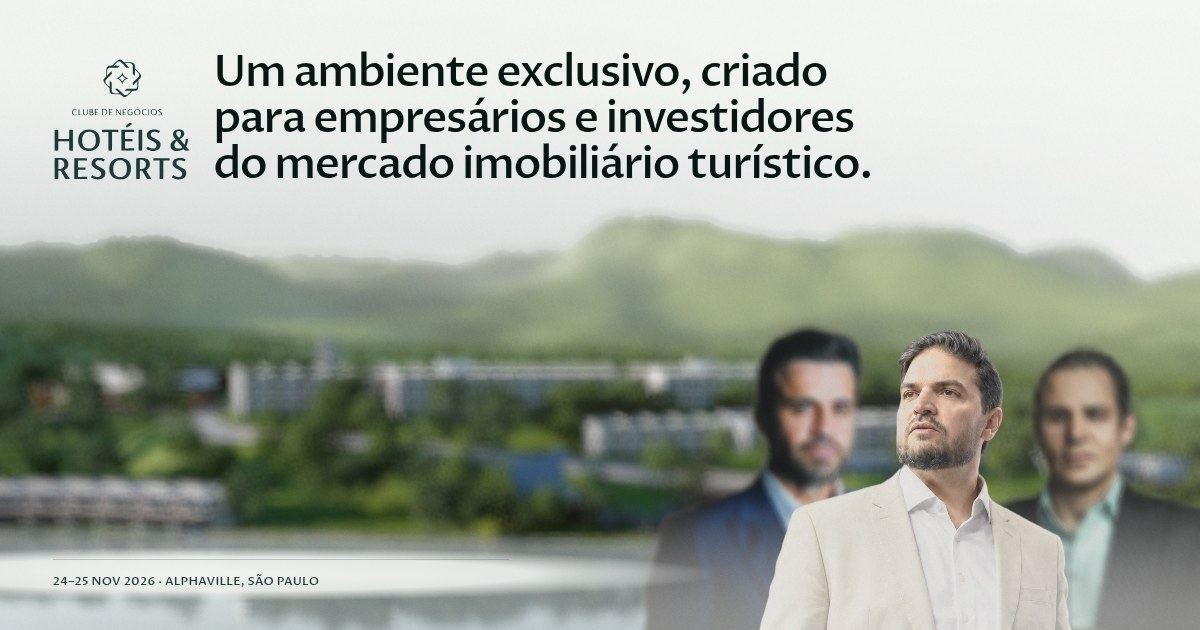
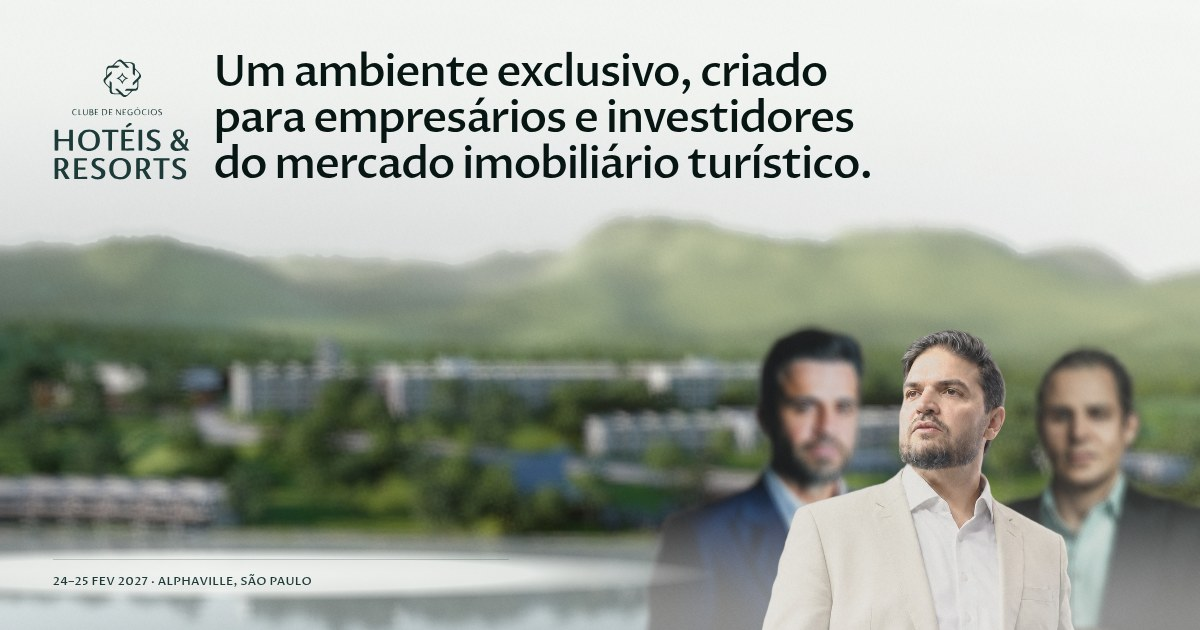
Publica edição 2026-11-sp (run 45308963509)

diff --git a/index.html b/index.html
@@ -25,7 +25,7 @@
     }
   </script>
   <title>Clube de Negócios Hotéis &amp; Resorts</title>
-  <meta name="description" content="Em Alphaville, São Paulo, e no Resort das Oliveiras, em Porto Feliz. 2 dias com Ênio Almeida, Pablo Marçal e Nezio Monteiro, 24 e 25 de novembro de 2026.">
+  <meta name="description" content="Em Alphaville, São Paulo, e no Resort das Oliveiras, em Porto Feliz. 2 dias com Ênio Almeida, Pablo Marçal e Nezio Monteiro, 24 e 25 de fevereiro de 2027.">
   <meta name="robots" content="index, follow, max-image-preview:large">
   <meta name="theme-color" content="#ffffff">
   <!-- DOMINIO-A-DEFINIR: trocar nas 6 ocorrências deste head (canonical, og:url, og:image, twitter:image, JSON-LD x2) e em robots.txt / sitemap.xml -->
@@ -36,17 +36,17 @@
   <meta property="og:locale" content="pt_BR">
   <meta property="og:url" content="https://enioalmeida.com.br/hotel/">
   <meta property="og:title" content="Clube de Negócios Hotéis &amp; Resorts">
-  <meta property="og:description" content="Em Alphaville, São Paulo, e no Resort das Oliveiras, em Porto Feliz. 2 dias com Ênio Almeida, Pablo Marçal e Nezio Monteiro, 24 e 25 de novembro de 2026.">
+  <meta property="og:description" content="Em Alphaville, São Paulo, e no Resort das Oliveiras, em Porto Feliz. 2 dias com Ênio Almeida, Pablo Marçal e Nezio Monteiro, 24 e 25 de fevereiro de 2027.">
   <meta property="og:image" content="https://enioalmeida.com.br/hotel/assets/compartilhar.jpg">
   <meta property="og:image:type" content="image/jpeg">
   <meta property="og:image:width" content="1200">
   <meta property="og:image:height" content="630">
-  <meta property="og:image:alt" content="Clube de Negócios Hotéis &amp; Resorts: Ênio Almeida, Pablo Marçal e Nezio Monteiro com o Resort das Oliveiras ao fundo. 24–25 nov 2026, Alphaville, São Paulo.">
+  <meta property="og:image:alt" content="Clube de Negócios Hotéis &amp; Resorts: Ênio Almeida, Pablo Marçal e Nezio Monteiro com o Resort das Oliveiras ao fundo. 24–25 fev 2027, Alphaville, São Paulo.">
   <meta name="twitter:card" content="summary_large_image">
   <meta name="twitter:title" content="Clube de Negócios Hotéis &amp; Resorts">
-  <meta name="twitter:description" content="Em Alphaville, São Paulo, e no Resort das Oliveiras, em Porto Feliz. 2 dias com Ênio Almeida, Pablo Marçal e Nezio Monteiro, 24 e 25 de novembro de 2026.">
+  <meta name="twitter:description" content="Em Alphaville, São Paulo, e no Resort das Oliveiras, em Porto Feliz. 2 dias com Ênio Almeida, Pablo Marçal e Nezio Monteiro, 24 e 25 de fevereiro de 2027.">
   <meta name="twitter:image" content="https://enioalmeida.com.br/hotel/assets/compartilhar.jpg">
-  <meta name="twitter:image:alt" content="Clube de Negócios Hotéis &amp; Resorts: Ênio Almeida, Pablo Marçal e Nezio Monteiro com o Resort das Oliveiras ao fundo. 24–25 nov 2026, Alphaville, São Paulo.">
+  <meta name="twitter:image:alt" content="Clube de Negócios Hotéis &amp; Resorts: Ênio Almeida, Pablo Marçal e Nezio Monteiro com o Resort das Oliveiras ao fundo. 24–25 fev 2027, Alphaville, São Paulo.">
 
   <link rel="icon" href="favicon.ico" sizes="32x32">
   <link rel="icon" href="favicon.svg" type="image/svg+xml">
@@ -73,8 +73,8 @@
     "@type": "Event",
     "name": "Clube de Negócios Hotéis & Resorts",
     "description": "Um ambiente exclusivo, criado para empresários e investidores do mercado imobiliário turístico.",
-    "startDate": "2026-11-24",
-    "endDate": "2026-11-25",
+    "startDate": "2027-02-24",
+    "endDate": "2027-02-25",
     "eventAttendanceMode": "https://schema.org/OfflineEventAttendanceMode",
     "inLanguage": "pt-BR",
     "url": "https://enioalmeida.com.br/hotel/",
@@ -108,7 +108,7 @@
   }
   </script>
   <!-- textos da edição que o hero.js e o secoes.js montam (gerado por tools/gerar.py; sem ele, o JS usa os da edição de 2026) -->
-  <script id="dados-edicao" type="application/json">{"abertura":"24 · 25 nov 2026","cena":{"nome":"Dia 2 · Resort das Oliveiras","fato":"Porto Feliz. Render do projeto."},"ingressos":[{"id":"premium","nome":"Premium"},{"id":"vip","nome":"VIP"}],"anos":25}</script>
+  <script id="dados-edicao" type="application/json">{"abertura":"24 · 25 fev 2027","cena":{"nome":"Dia 2 · Resort das Oliveiras","fato":"Porto Feliz. Render do projeto."},"ingressos":[{"id":"premium","nome":"Premium"},{"id":"vip","nome":"VIP"}],"anos":25}</script>
 </head>
 <body>
   <a class="pular" href="#hero-titulo">Pular para o conteúdo</a>
@@ -160,7 +160,7 @@
           </a>
         </div>
         <p class="hero__rodape">
-          <span class="hero__quando"><time datetime="2026-11-24">24</time>–<time datetime="2026-11-25">25 nov 2026</time> · Alphaville, São Paulo</span>
+          <span class="hero__quando"><time datetime="2027-02-24">24</time>–<time datetime="2027-02-25">25 fev 2027</time> · Alphaville, São Paulo</span>
           <span class="hero__aviso">Resort das Oliveiras em render do projeto</span>
         </p>
       </div>
@@ -371,7 +371,7 @@
             <li class="dia" data-dia="1">
               <p class="dia__num" aria-hidden="true">01</p>
               <h3 class="dia__onde">Plataforma Global</h3>
-              <p class="dia__quando"><time datetime="2026-11-24">Terça, 24 de novembro</time> · Alphaville, SP</p>
+              <p class="dia__quando"><time datetime="2027-02-24">Quarta, 24 de fevereiro</time> · Alphaville, SP</p>
               <figure class="dia__foto">
                 <img class="dia__foto-palco" src="assets/evento/enio_palco.webp" alt="Ênio Almeida fala no Hot Seat Jurídico, no palco da edição anterior do Clube" width="1100" height="1650" loading="lazy" decoding="async">
                 <figcaption>Edição anterior</figcaption>
@@ -384,7 +384,7 @@
             <li class="dia" data-dia="2">
               <p class="dia__num" aria-hidden="true">02</p>
               <h3 class="dia__onde">Resort das Oliveiras</h3>
-              <p class="dia__quando"><time datetime="2026-11-25">Quarta, 25 de novembro</time> · Porto Feliz, SP</p>
+              <p class="dia__quando"><time datetime="2027-02-25">Quinta, 25 de fevereiro</time> · Porto Feliz, SP</p>
               <figure class="dia__foto">
                 <img src="assets/dias/resort-800.webp" srcset="assets/dias/resort-800.webp 800w, assets/dias/resort-1400.webp 1400w" sizes="100vw" alt="Piscina de praia com palmeiras e decks de pedra, à beira do lago do Resort das Oliveiras, com a serra ao fundo" width="1400" height="875" loading="lazy" decoding="async">
                 <figcaption>Render do projeto</figcaption>
@@ -411,7 +411,7 @@
         </div>
         <div class="voo__texto">
           <h2 class="voo__titulo" id="voo-titulo">Do vale à beira da piscina.</h2>
-          <p class="voo__apoio">Dia 2, quarta, 25 de novembro: a visita técnica acontece aqui, no Resort das Oliveiras.</p>
+          <p class="voo__apoio">Dia 2, quinta, 25 de fevereiro: a visita técnica acontece aqui, no Resort das Oliveiras.</p>
         </div>
       </div>
     </section>
@@ -591,7 +591,7 @@
           <ol class="mapa__paradas">
             <li class="mapa__parada">
               <button type="button" class="mapa__nome" title="Mostrar o trajeto no mapa"><span class="mapa__letra" aria-hidden="true">A</span><span class="mapa__nome-texto">Plataforma Global</span><svg class="mapa__nome-icone" viewBox="0 0 24 24" width="18" height="18" aria-hidden="true"><path d="M12 21s-6.5-5.6-6.5-11a6.5 6.5 0 0 1 13 0c0 5.4-6.5 11-6.5 11z" fill="none" stroke="currentColor" stroke-width="1.6" stroke-linejoin="round"/><circle cx="12" cy="10" r="2.3" fill="none" stroke="currentColor" stroke-width="1.6"/></svg></button>
-              <p class="mapa__quando"><span>Dia 1</span> <time datetime="2026-11-24T08:30">terça, 24 nov · 08h30</time></p>
+              <p class="mapa__quando"><span>Dia 1</span> <time datetime="2027-02-24T08:30">quarta, 24 fev · 08h30</time></p>
               <p class="mapa__endereco">Alameda Tocantins, 956<br>Alphaville, Barueri, SP</p>
               <p class="mapa__acoes">
                 <span class="mapa__rotulo">Rota até lá</span>
@@ -602,7 +602,7 @@
             <li class="mapa__entre"><span>cerca de 1h30 de carro · 90 km</span></li>
             <li class="mapa__parada">
               <button type="button" class="mapa__nome" title="Mostrar o trajeto no mapa"><span class="mapa__letra" aria-hidden="true">B</span><span class="mapa__nome-texto">Resort das Oliveiras</span><svg class="mapa__nome-icone" viewBox="0 0 24 24" width="18" height="18" aria-hidden="true"><path d="M12 21s-6.5-5.6-6.5-11a6.5 6.5 0 0 1 13 0c0 5.4-6.5 11-6.5 11z" fill="none" stroke="currentColor" stroke-width="1.6" stroke-linejoin="round"/><circle cx="12" cy="10" r="2.3" fill="none" stroke="currentColor" stroke-width="1.6"/></svg></button>
-              <p class="mapa__quando"><span>Dia 2</span> <time datetime="2026-11-25T09:00">quarta, 25 nov · 09h00</time></p>
+              <p class="mapa__quando"><span>Dia 2</span> <time datetime="2027-02-25T09:00">quinta, 25 fev · 09h00</time></p>
               <p class="mapa__endereco">Rodovia Marechal Rondon, km 127,5<br>Porto Feliz, SP</p>
               <p class="mapa__acoes">
                 <span class="mapa__rotulo">Rota até lá</span>
@@ -667,7 +667,7 @@
             <span class="botao__seta" aria-hidden="true"><svg viewBox="0 0 24 24" width="18" height="18"><path d="M5 12h13m-5-5 5 5-5 5" fill="none" stroke="currentColor" stroke-width="1.7" stroke-linecap="round" stroke-linejoin="round"/></svg></span>
           </a>
         </div>
-        <p class="convite__quando"><time datetime="2026-11-24">24</time>–<time datetime="2026-11-25">25 nov 2026</time> · Alphaville → Porto Feliz</p>
+        <p class="convite__quando"><time datetime="2027-02-24">24</time>–<time datetime="2027-02-25">25 fev 2027</time> · Alphaville → Porto Feliz</p>
       </div>
       <div class="convite__fundo" aria-hidden="true">
         <!-- duas camadas do mesmo render (tools/resort/fecho_camadas.py): morros ao fundo, ala e água na frente;
@@ -683,8 +683,8 @@
   <footer class="rodape">
     <div class="rodape__marca" role="img" aria-label="Clube de Negócios Hotéis &amp; Resorts"></div>
     <div class="rodape__colunas">
-      <p>24 e 25 de novembro de 2026<br>Alphaville e Porto Feliz, SP</p>
-      <p>Imagens do resort são ilustrativas.<br>© 2026 Clube de Negócios de Hotéis &amp; Resorts.</p>
+      <p>24 e 25 de fevereiro de 2027<br>Alphaville e Porto Feliz, SP</p>
+      <p>Imagens do resort são ilustrativas.<br>© 2027 Clube de Negócios de Hotéis &amp; Resorts.</p>
     </div>
   </footer>
 
@@ -702,7 +702,7 @@
 
       <div class="acesso__passo acesso__passo--form">
         <span class="acesso__marca" aria-hidden="true"></span>
-        <p class="acesso__antes">24 e 25 de novembro · Alphaville, São Paulo</p>
+        <p class="acesso__antes">24 e 25 de fevereiro · Alphaville, São Paulo</p>
         <h2 class="acesso__titulo" id="acesso-titulo">Garantir meu acesso</h2>
         <p class="acesso__texto">Deixe seu contato e um dos nossos especialistas fala com você pelo WhatsApp para confirmar o seu ingresso.</p>
 
